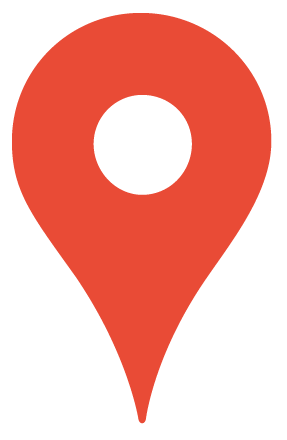
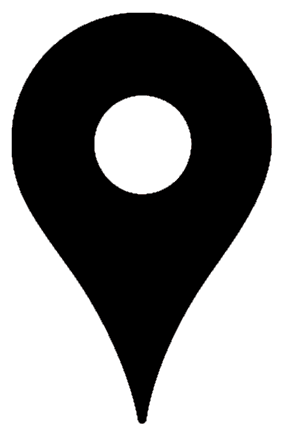
Обновленый клиент

diff --git a/client/GIS.html b/client/GIS.html
@@ -63,6 +63,10 @@
 	   
 	   }
 	   
+	   h2{
+		align : center;
+	   }
+	   
 	</style>
 		
 	
@@ -96,8 +100,8 @@
 		</div>
 	</div>
 	
-	<div id = "search-menu">
-		<form>	
+	<div >
+		<form id = "search-menu" action="javascript:">	
 			<div class = "search-menu form-row row">
 				<input class="form-control col-md-10 col-9" type="text" id = "search-row"/>
 				<input class="form-control col-md-2  col-3" type="submit" value="Искать" />
@@ -114,13 +118,13 @@
 	
 	<div class = "left-info" id = "left-info">	
 		<div class = "addresses-info" id = "addresses-info">
-		<h2>Список адресов</h2>
+		<h2>Адрес</h2>
 		</div>
 		<div class = "organizations-info" id = "organizations-info">
 		<h2>Список организаций</h2>
 		</div>
 		<div class = "way-info" id = "way-info">
-			<h2>Это ГИС-ПОАС и мы строим высотку</h2>
+			<h2>Маршрут</h2>
 			<form>
 				<label> Откуда	</label>
 				<label class="form-control" id="way-info-first-point" type="text"> </label>
@@ -147,7 +151,8 @@
 
 
 			//Адрес сервака, возможно, будет ненужным
-			serverAddr = "localhost://"
+			//serverAddr = "http://192.168.88.27/api"
+			serverAddr = "http://25.62.221.106/api"
 		
 			//Jquery - объект с картинкой карты
 			jq_mapImg = $("#map-image");	
@@ -202,6 +207,8 @@
 			
 			//Последний клик по карте
 			lastClickXY = [-1, -1];
+
+			wayPoints = [];
 		});
 		
 			
@@ -323,17 +330,18 @@
 		///////////////////////////////////////////////////////
 		
 		function onSearchSubmit(event){
-			alert("Попробуйте сначала найти себя");
+			//alert("Попробуйте сначала найти себя");
 			serverRequestSearchLoc();
 		}
 		
 		// Это запрос на сервак 
 		function serverRequestSearchLoc(){
 			var searchStr = jq_searchRow.val();
-			var requestURL = "search/";
+			let requestURL = "GetResult";
 			$.get(
-					requestURL,
+					serverAddr,
 					{
+						method: requestURL,
 						request: searchStr
 					},
 					onServerSearchAnswer,
@@ -343,12 +351,17 @@
 
 		//Это обработка ответа
 		function onServerSearchAnswer(data, textStatus, jqXHR){
-			var points = data.points;
+			let points = [];
+			points = points.concat( data.points);
+			for (let i = 0; i < data.organizations.length; i++ ){
+				points = points.concat( [data.organizations[i].point]);
+			}
+
 			removeAllPointIcons();
-			var minX, minY, maxX, maxY;
-			maxX = maxY = 10000000000;
-			minY = minY = 0;
-			for ( var i = 0; i < points.length; i++){
+			let minX, minY, maxX, maxY;
+			minX = minY = 10000000000;
+			maxX = maxY = 0;
+			for ( let i = 0; i < points.length; i++){
 				addBlackPointIcon( points[i]); //Фигачим точечки
 				
 				maxX = Math.max(maxX, points[i][0]);
@@ -388,14 +401,15 @@
 			var x = xy[0];
 			var y = xy[1];
 			
-			var requestURL = "GetAddress/"; 
+			var requestURL = "GetAddresse"; 
 			$.get(
-					requestURL,
+					serverAddr,
 					{
+						method: requestURL,
 						coordinateX: xy[0],
 						coordinateY: xy[1]
 					}, 					
-					onWhatThereRequest,
+					onWhatAddressThereAnswer,
 					"Json"
 			);
 		};
@@ -403,7 +417,8 @@
 
 		//Обработка ответа
 		function onWhatAddressThereAnswer(data, textStatus, jqXHR){
-			var addr = data.object.address;
+			//var addr = data.object.address ? data.object.address : "";
+			var addr = data.address;
 			if ( getFirstWayPointToWayInfo() == null || getFirstWayPointToWayInfo() == ""){
 				setFirstWayPointToWayInfo(addr);
 			} else if ( getSecondWayPointToWayInfo() == null || getSecondWayPointToWayInfo() == ""){
@@ -423,32 +438,43 @@
 			var x = xy[0];
 			var y = xy[1];
 			
-			var requestURL = "GetAddress/"; 
+			var requestURL = "GetAddresse"; 
 			$.get(
-					requestURL,
+					serverAddr,
 					{
+						method: requestURL,
 						coordinateX: xy[0],
 						coordinateY: xy[1]
 					}, 					
-					onWhatThereRequest,
+					onWhatOrganizationsThere,
 					"Json"
 			);
 		};
 
 		function onWhatOrganizationsThere(data, textStatus, jqXHR){
 			var organizations = data.organizations;
-			refillOrganizationsInfo(organizations);
+			if (organizations.length >= 1){
+				showOrganizationsInfo();
+				refillOrganizationsInfo(organizations);
+			}else {
+				const addr = data.address;
+				clearAddressesInfo();
+				addOneAddresseInfo(addr);
+				showAddressesInfo();
+			}
+			
 		}
 
 
 		function getWayRequest(){
-			var requestURL = "GetRoute/";
+			var requestURL = "GetRoute";
 			
-			pointsOnMap = jq_mapIconContainer.find(".point-icon");
+			pointsOnMap = getWayPointIcons();
 			
-			$.post(
-				requestURL,
+			$.get(
+				serverAddr,
 				{
+					method: requestURL,
 					coordinateX1 : pointsOnMap[0].coordX,
 					coordinateY1 : pointsOnMap[0].coordY,
 					coordinateX2 : pointsOnMap[1].coordX,
@@ -478,7 +504,7 @@
 		function drawWay( way){
 			canv.beginPath();
 			canv.moveTo( way[0][0], way[0][1] );
-			for ( var i = 1; i < way.lenght; i++){
+			for ( var i = 1; i < way.length; i++){
 				canv.lineTo( way[i][0], way[i][1] );
 			};
 			canv.stroke();
@@ -486,7 +512,7 @@
 		
 		//Очистить карту от путей
 		function clearMapCanvas(){
-			canv.clearRect(0, 0, canv.width, canvas.canv);
+			canv.clearRect(0, 0, canv.width, canv.canv);
 		};
 		
 		
@@ -514,13 +540,20 @@
 					removeWayPointIcons();
 
 				convertPointToWayPoint( $(".point-icon"));
+				
+				//let point = getRedPointIcons()[0];
+				whatAddressThere(lastClickXY);
+
 
 			} else if (selectedIndex == 1){
 
-				showAddressesInfo();
 				removeWayPointIcons();
 				setFirstWayPointToWayInfo("");
 				setSecondWayPointToWayInfo("");				
+
+				let point = getRedPointIcons()[0];
+
+				whatOrganizationsThere(lastClickXY);
 			}
 
 			hidePointMenu();
@@ -546,6 +579,17 @@
 			return iconElement;
 		};
 		
+		function getPointIcons(){
+			return $(".point-icon");
+		}
+
+		
+		function getRedPointIcons(){
+			return $(".red-point");
+		}
+
+		
+		
 		function addRedPointIcon(xy){
 			var redIconSource = "./redPointIcon.png";
 			var pointElem = addPointIcon(redIconSource,xy);
@@ -561,16 +605,27 @@
 		};
 		
 		function convertPointToWayPoint(jq_point){
+
 			jq_point.removeClass("point-icon");
 			jq_point.addClass("way-point-icon");
+			
 		}
 
+		function getWayPointIcons(){
+			return $(".way-point-icon");
+		}
+
+		function removeAllPointIcons(){
+			removeNotWayPointIcons();
+			removeWayPointIcons();
+		}
 
 		function removeNotWayPointIcons(){
 			jq_mapIconContainer.find(".point-icon").remove();
 		};
 
 		function removeWayPointIcons(){
+			
 			var jq_notWayPoint = jq_mapIconContainer.find(".point-icon");
 			var notWayPointOffsets = jq_notWayPoint.offset(); //Костыль, иначе - почему-то съезжают
 			jq_mapIconContainer.find(".way-point-icon").remove();
@@ -581,9 +636,9 @@
 		///////////////////////////////////////////
 		
 		function scrollTo(x,y){
-			var oldCenterPoint = $(".window-center-point");
+			var oldCenterPoint = $("#window-center-point");
 			var centerPoint = null;
-			if (oldCenterPoint.lenght == 0){
+			if (!oldCenterPoint.length || oldCenterPoint.length == 0){
 				centerPoint = $("<div class='window-center-point' id = 'window-center-point'></div>")
 				$(document.body).append(centerPoint);
 				centerPoint.hide();
